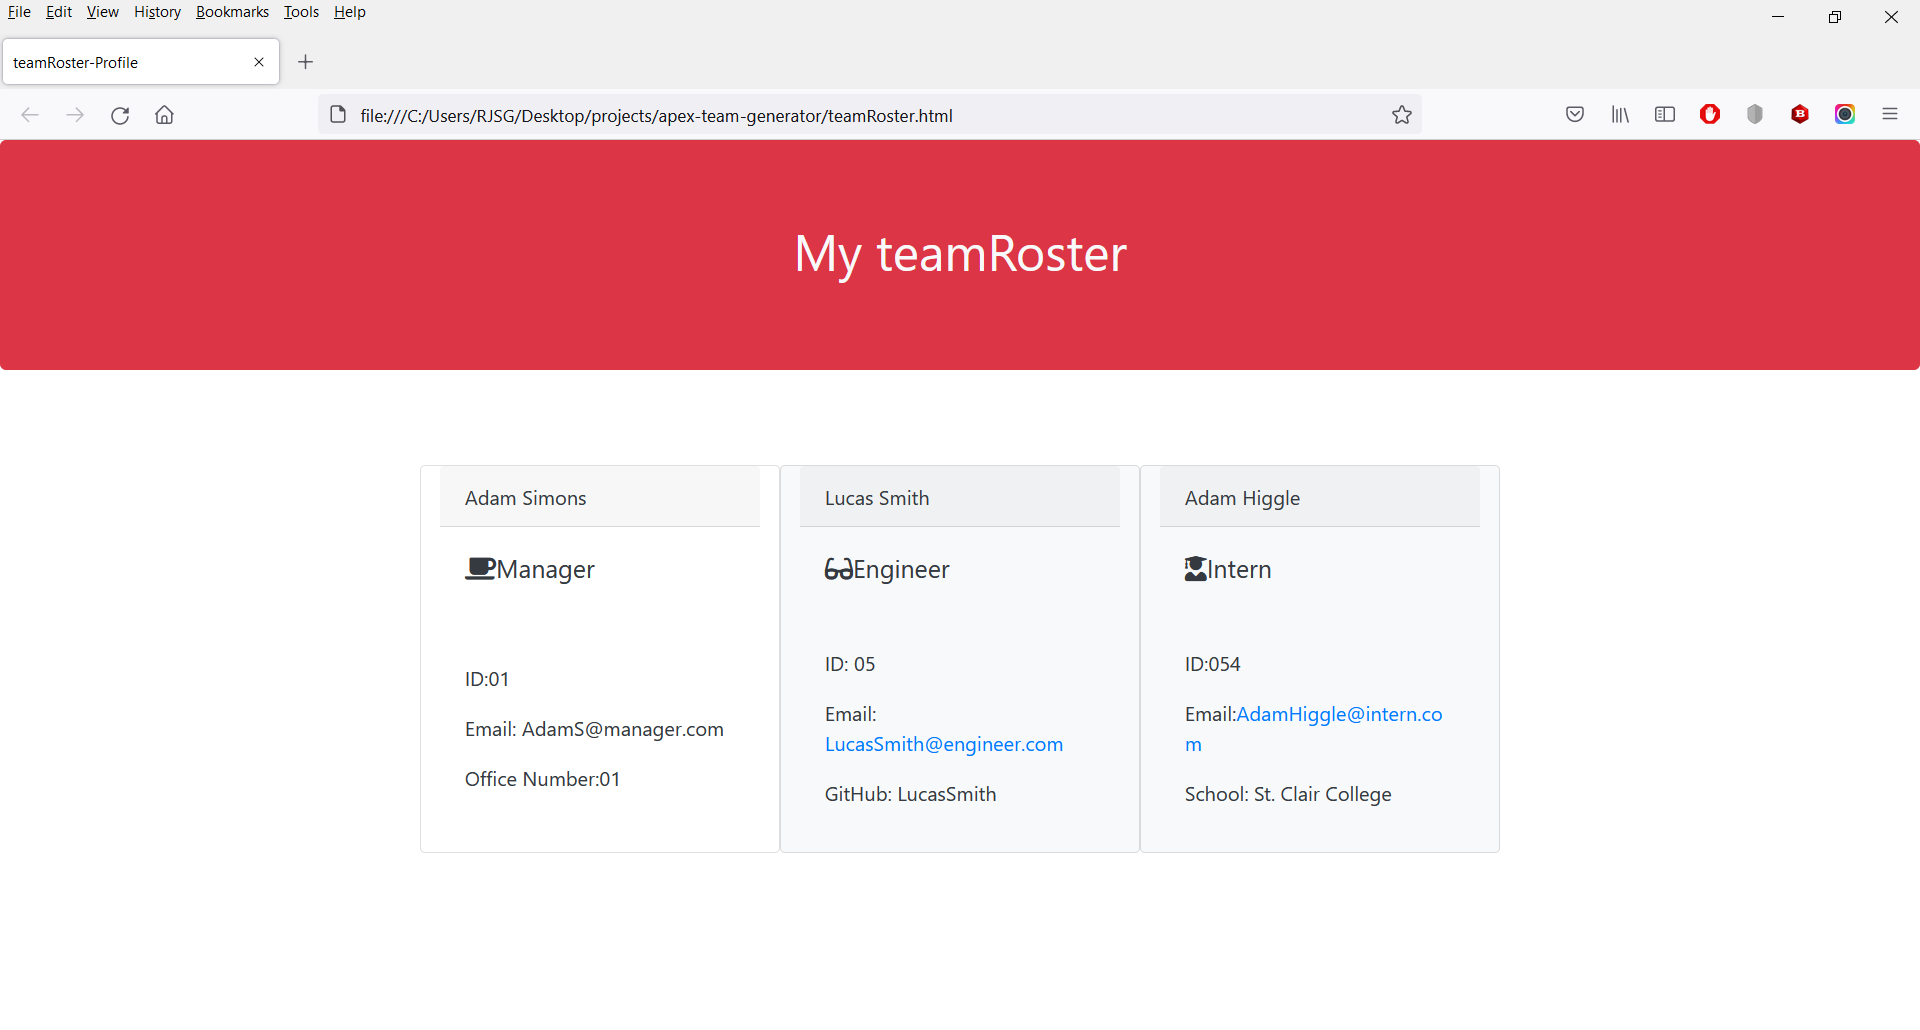
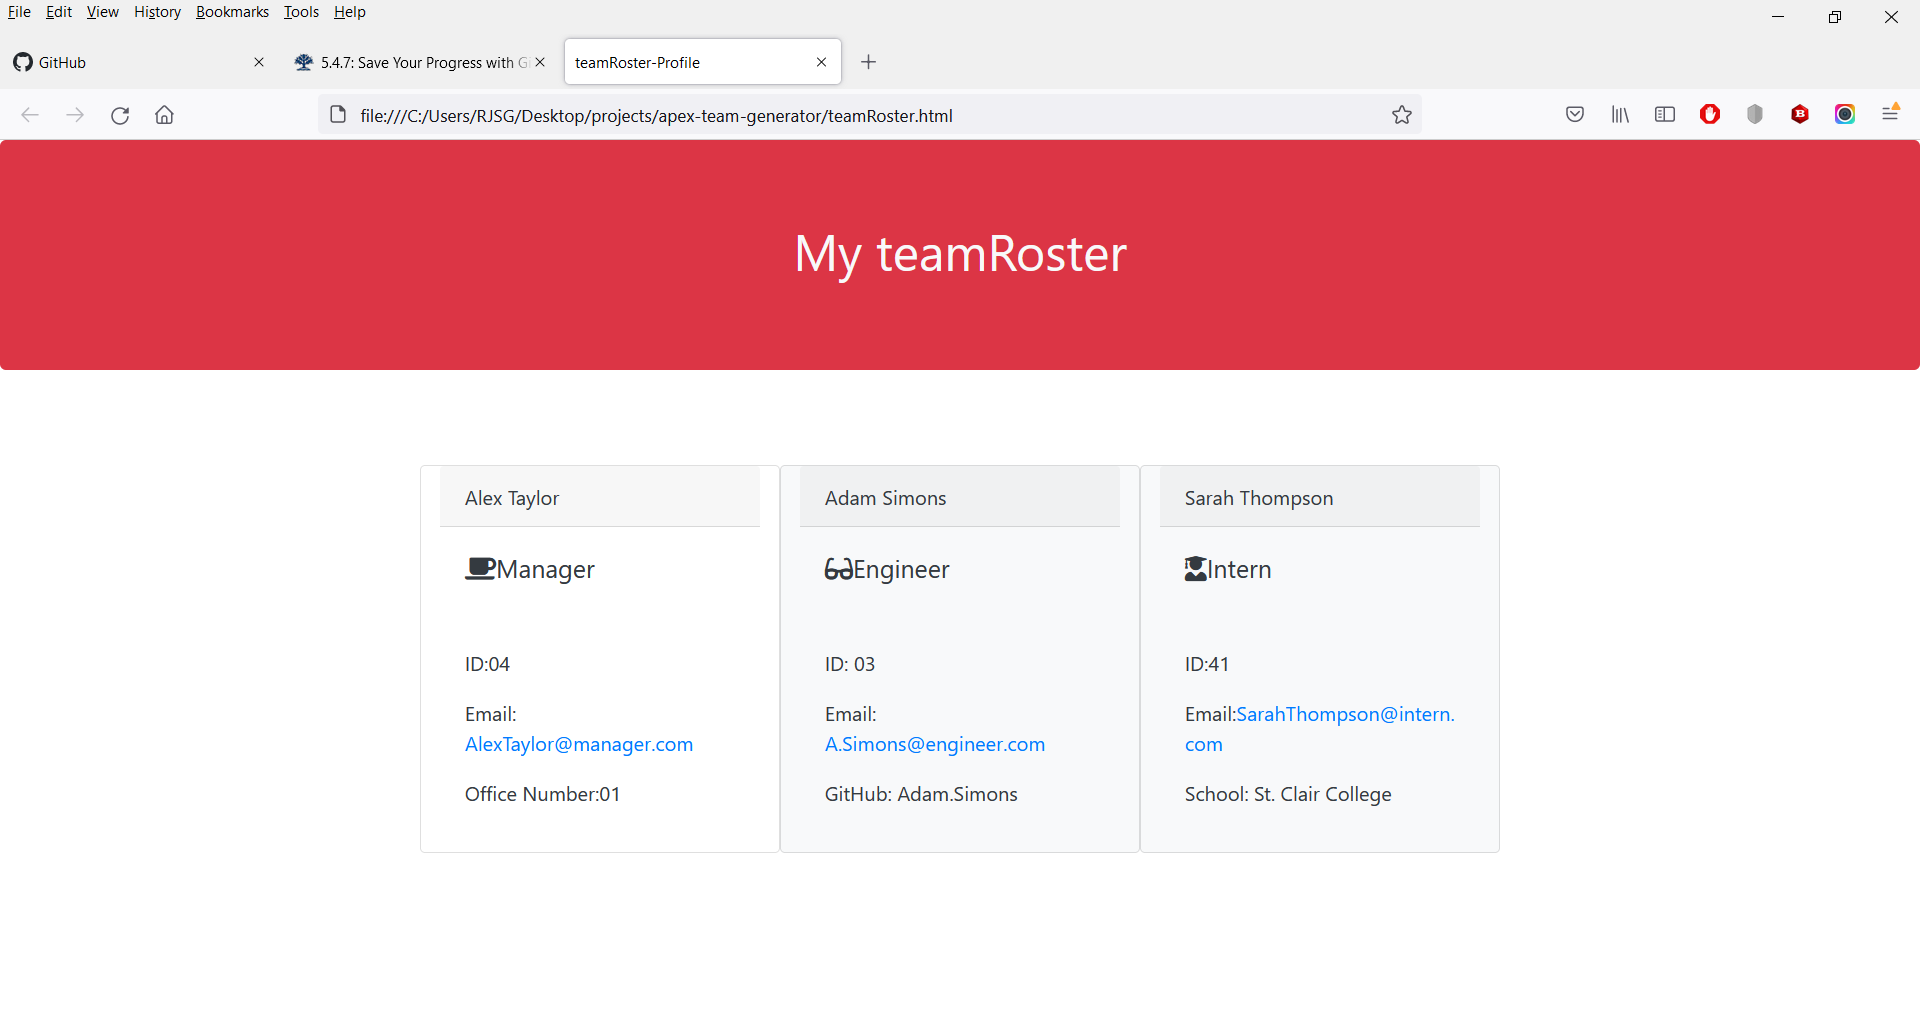
fixed missing anchor tag and re-recorded and retook screenshot

diff --git a/teamRoster.html b/teamRoster.html
@@ -20,37 +20,37 @@
         <div class='card-body row justify-content-center'>
             
         <div class="col-4 mt-4 card text-dark bg-ligth mb-3" style="max-width: 18rem;">
-        <div class="card-header">Adam Simons</div>
+        <div class="card-header">Alex Taylor</div>
         <div class="card-body">
           <h5 class="card-title"><i class="fas fa-coffee"></i>Manager</h5>
         </div>
         <div class='card-body'>
-        <p>ID:01</p>
-        <p>Email: <a href="mailto:AdamS@manager.com"></a> AdamS@manager.com</p>
+        <p>ID:04</p>
+        <p>Email: <a href="mailto:AlexTaylor@manager.com">AlexTaylor@manager.com</a></p>
         <p>Office Number:01</p>
         </div>
       </div>
         
         <div class="col-4 mt-4  card text-dark bg-light mb-3" style="max-width: 18rem;">
-        <div class="card-header">Lucas Smith</div>
+        <div class="card-header">Adam Simons</div>
         <div class="card-body">
           <h5 class="card-title"><i class="fas fa-glasses"></i></i>Engineer</h5>
         </div>
         <div class='card-body'>
-        <p>ID: 05</p>
-        <p>Email: <a href="mailto:LucasSmith@engineer.com">LucasSmith@engineer.com</a></p>
-        <p>GitHub: <a href="https://github.com/LucasSmith"></a>LucasSmith</p>
+        <p>ID: 03</p>
+        <p>Email: <a href="mailto:A.Simons@engineer.com">A.Simons@engineer.com</a></p>
+        <p>GitHub: <a href="https://github.com/Adam.Simons"></a>Adam.Simons</p>
         </div>
       </div>
         
         <div class="col-4 mt-4 card text-dark bg-light mb-3" style="max-width: 18rem;">
-        <div class="card-header">Adam Higgle</div>
+        <div class="card-header">Sarah Thompson</div>
         <div class="card-body">
           <h5 class="card-title"><i class="fas fa-user-graduate"></i></i>Intern</h5>
         </div>
         <div class='card-body'>
-        <p>ID:054</p>
-        <p>Email:<a href="mailto:AdamHiggle@intern.com">AdamHiggle@intern.com</a></p>
+        <p>ID:41</p>
+        <p>Email:<a href="mailto:SarahThompson@intern.com">SarahThompson@intern.com</a></p>
         <p>School: St. Clair College</p>
         </div>
       </div>

diff --git a/src/pageTemplate.js b/src/pageTemplate.js
@@ -13,7 +13,7 @@ const createAll = (teamRoster) => {
         </div>
         <div class='card-body'>
         <p>ID:${manager.getId()}</p>
-        <p>Email: <a href="mailto:${manager.getEmail()}"></a> ${manager.getEmail()}</p>
+        <p>Email: <a href="mailto:${manager.getEmail()}">${manager.getEmail()}</a></p>
         <p>Office Number:${manager.getOfficeNumber()}</p>
         </div>
       </div>

diff --git a/readme.md b/readme.md
@@ -28,7 +28,7 @@ Project to dynamically create and display to html file after being prompted by q
 
 # Video
 
-[Video demo](https://watch.screencastify.com/v/AMzyKpp4KrG89lLfoTZm)
+[Video demo](https://watch.screencastify.com/v/XzKWrNVrZMdKSCUAEqvV)
 
 # Questions
 
